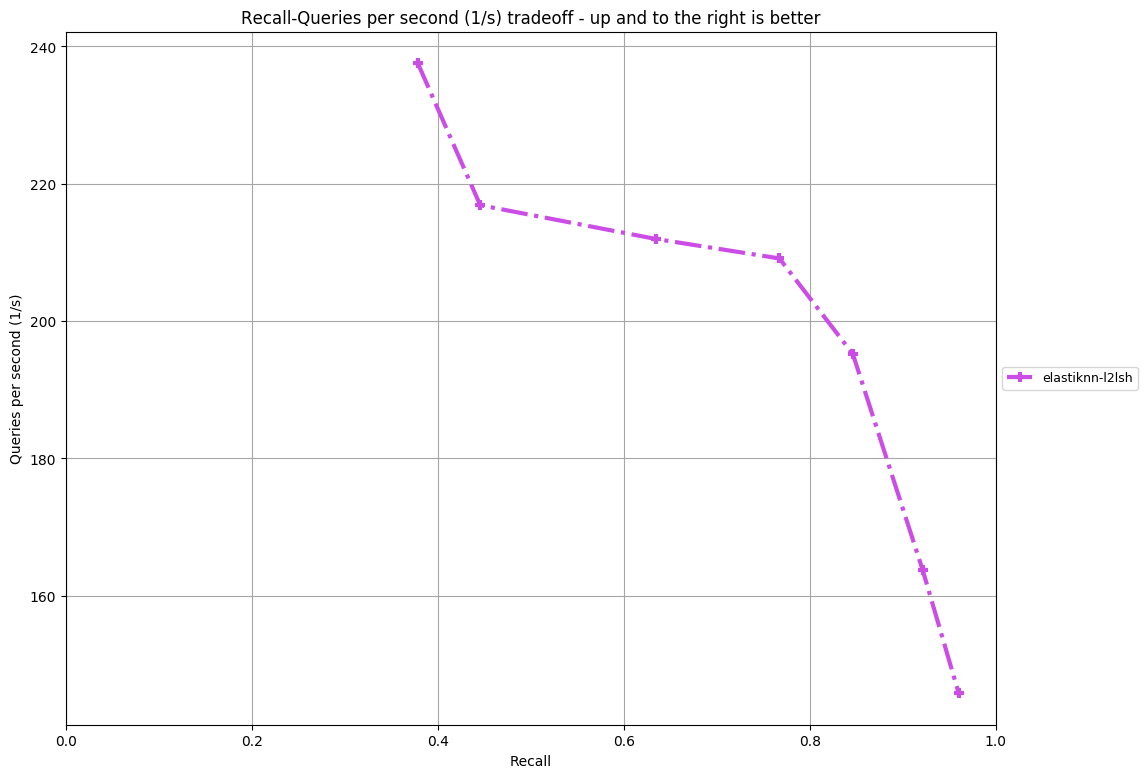
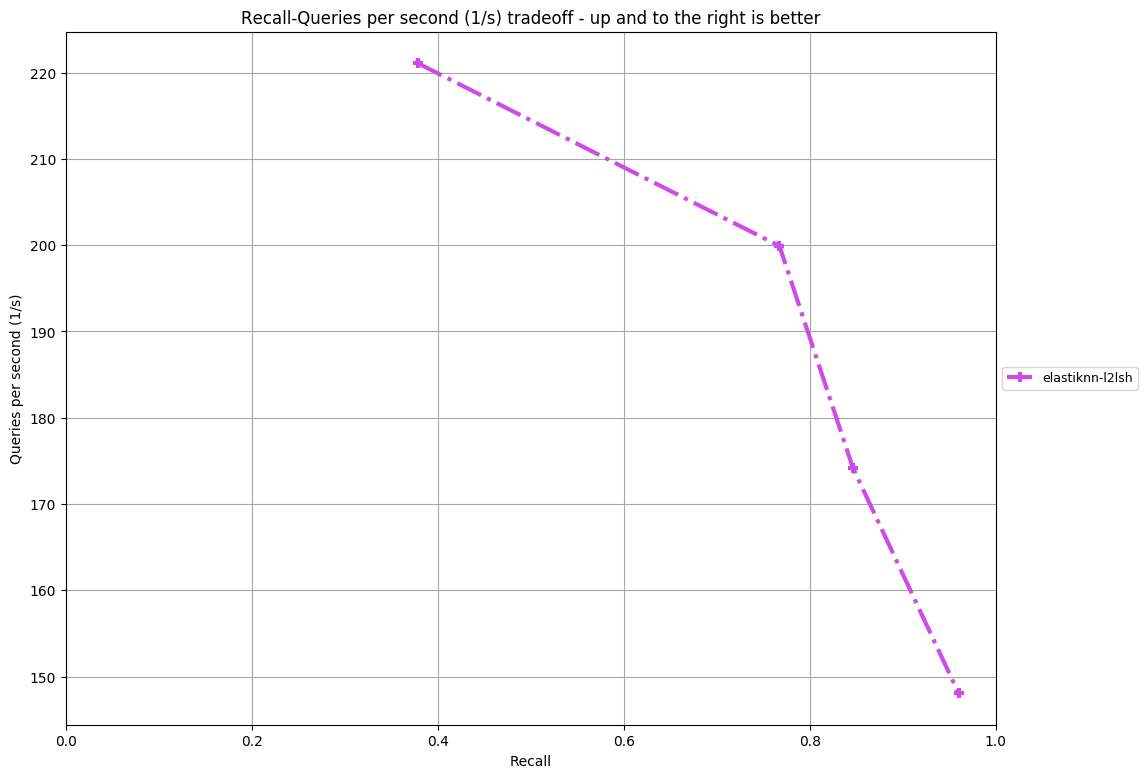
round 2

diff --git a/docs/pages/performance/fashion-mnist/results.md b/docs/pages/performance/fashion-mnist/results.md
@@ -1,10 +1,10 @@
 |Model|Parameters|Recall|Queries per Second|
 |---|---|---|---|
-|eknn-l2lsh|L=100 k=4 w=1024 candidates=500 probes=0|0.378|237.549|
-|eknn-l2lsh|L=100 k=4 w=1024 candidates=1000 probes=0|0.446|216.877|
-|eknn-l2lsh|L=100 k=4 w=1024 candidates=500 probes=3|0.634|211.965|
-|eknn-l2lsh|L=100 k=4 w=1024 candidates=1000 probes=3|0.717|166.906|
-|eknn-l2lsh|L=100 k=4 w=2048 candidates=500 probes=0|0.767|209.126|
-|eknn-l2lsh|L=100 k=4 w=2048 candidates=1000 probes=0|0.846|195.209|
-|eknn-l2lsh|L=100 k=4 w=2048 candidates=500 probes=3|0.921|163.716|
-|eknn-l2lsh|L=100 k=4 w=2048 candidates=1000 probes=3|0.960|145.818|
+|eknn-l2lsh|L=100 k=4 w=1024 candidates=500 probes=0|0.379|221.088|
+|eknn-l2lsh|L=100 k=4 w=1024 candidates=1000 probes=0|0.446|187.058|
+|eknn-l2lsh|L=100 k=4 w=1024 candidates=500 probes=3|0.634|189.510|
+|eknn-l2lsh|L=100 k=4 w=1024 candidates=1000 probes=3|0.716|169.980|
+|eknn-l2lsh|L=100 k=4 w=2048 candidates=500 probes=0|0.767|199.904|
+|eknn-l2lsh|L=100 k=4 w=2048 candidates=1000 probes=0|0.846|174.214|
+|eknn-l2lsh|L=100 k=4 w=2048 candidates=500 probes=3|0.921|147.797|
+|eknn-l2lsh|L=100 k=4 w=2048 candidates=1000 probes=3|0.960|148.080|
